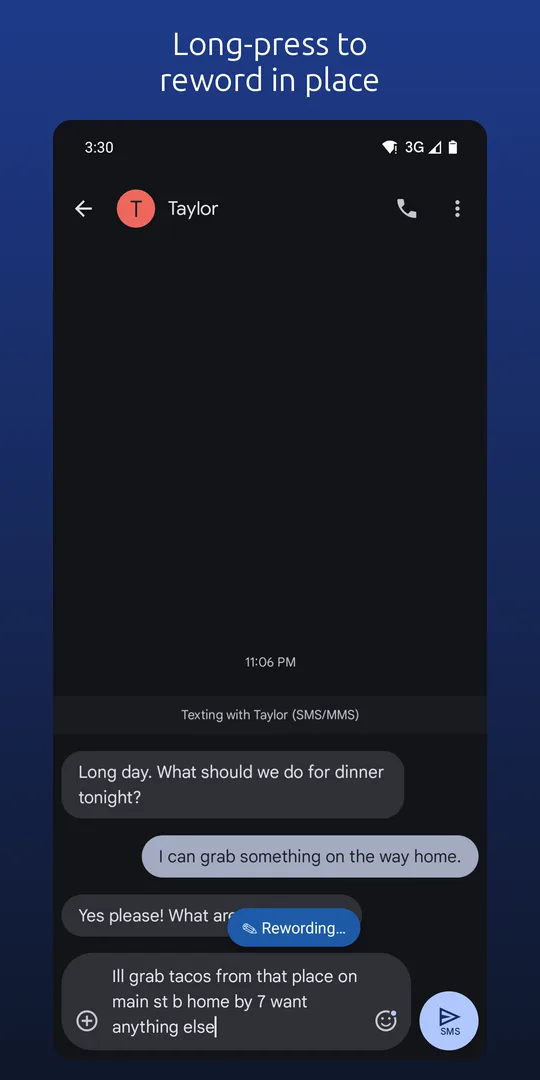
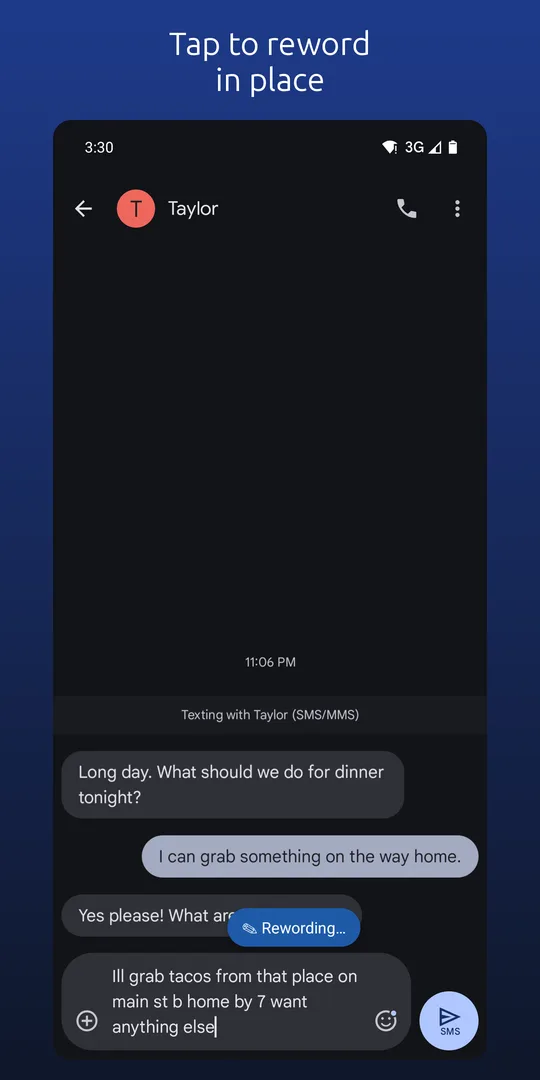
Tap rewords in place, long press shows the choices

Changed region(s): [[0.2963, 0.0306, 0.7111, 0.0917]]

diff --git a/index.html b/index.html
@@ -61,18 +61,18 @@
 </header>
 
 <p>Reword is an Android app that turns quick, messy messages into clear ones. Type or use
-voice to text like you always do, tap <span class="button">✎ Reword</span> above the message box,
-and tap Replace.</p>
+voice to text like you always do, then tap <span class="button">✎ Reword</span> above the message box.
+Your message is cleaned up right where you typed it.</p>
 
 <div class="steps">
 <ol>
   <li>Type your message in your texting, chat or email app.</li>
-  <li>Tap ✎ Reword and pick a style and reading level.</li>
-  <li>Check the rewrite, then tap Replace. You decide whether to send it.</li>
+  <li>Tap ✎ Reword. Your message is reworded right in the box, with a few seconds to undo.</li>
+  <li>You decide whether to send it.</li>
 </ol>
 </div>
-<p>In a hurry? Long-press <span class="button">✎ Reword</span> instead: your message is reworded right in the
-box, with a few seconds to undo. Your keyboard stays where it is.</p>
+<p>Want a different style? Long-press <span class="button">✎ Reword</span> to pick a style and reading level
+and see the rewrite before it goes in.</p>
 
 <h2>See it in action</h2>
 <ul class="gallery">
@@ -81,7 +81,7 @@ box, with a few seconds to undo. Your keyboard stays where it is.</p>
   <li><a href="screens/03-shakespeare.webp"><img src="screens/03-shakespeare.webp" alt="The same text rewritten as Shakespeare at the Max reading level" width="540" height="1080" loading="lazy"></a></li>
   <li><a href="screens/04-pirate.webp"><img src="screens/04-pirate.webp" alt="A messy text about a night out, rewritten as Pirate at the Max reading level" width="540" height="1080" loading="lazy"></a></li>
   <li><a href="screens/05-piratesent.webp"><img src="screens/05-piratesent.webp" alt="The pirate rewrite after it was sent" width="540" height="1080" loading="lazy"></a></li>
-  <li><a href="screens/06-lpbefore.webp"><img src="screens/06-lpbefore.webp" alt="Long-pressing the Reword button on a messy text about bringing home dinner" width="540" height="1080" loading="lazy"></a></li>
+  <li><a href="screens/06-lpbefore.webp"><img src="screens/06-lpbefore.webp" alt="Tapping the Reword button on a messy text about bringing home dinner" width="540" height="1080" loading="lazy"></a></li>
   <li><a href="screens/07-lpafter.webp"><img src="screens/07-lpafter.webp" alt="The text reworded in place as a rhyme at the Expert reading level, with an Undo button" width="540" height="1080" loading="lazy"></a></li>
   <li><a href="screens/08-setup.webp"><img src="screens/08-setup.webp" alt="Setup: connect to an AI, turn on the Reword button, try it" width="540" height="1080" loading="lazy"></a></li>
   <li><a href="screens/09-disclosure.webp"><img src="screens/09-disclosure.webp" alt="What the Reword button can see" width="540" height="1080" loading="lazy"></a></li>
@@ -114,7 +114,7 @@ use the Reword keyboard, the Quick Settings tile, or select text and choose Rewo
 
 <h2>Private by design</h2>
 <ul>
-  <li>Nothing is sent until you tap Reword, and then only to the AI you chose.</li>
+  <li>Nothing is sent until you tap or long-press Reword, and then only to the AI you chose.</li>
   <li>No account, no ads, no analytics.</li>
   <li>The Reword button reads only the message box you're typing in, only in the apps above, and
     never password boxes or messages you receive.</li>

diff --git a/privacy-policy.html b/privacy-policy.html
@@ -35,11 +35,11 @@ or share them. The text you ask to rewrite goes only to the AI you chose, only w
 are no accounts, ads or analytics.</p>
 
 <h2>The text you rewrite</h2>
-<p>When you tap Reword (on the floating button, in the Reword keyboard, from the Quick Settings tile
-or the text-selection menu), the app sends that text, with your chosen style and reading level, to
-the AI you selected in the app's setup, and shows you the result. If you long-press the floating
-button instead, the result goes straight into your message box, and you can undo it for a few
-seconds. Nothing is sent until you ask.</p>
+<p>When you use Reword (the floating button, the Reword keyboard, the Quick Settings tile or the
+text-selection menu), the app sends that text, with your chosen style and reading level, to the AI
+you selected in the app's setup. A tap on the floating button puts the result straight into your
+message box, and you can undo it for a few seconds; a long press, and the other ways, show you the
+result first. Nothing is sent until you ask.</p>
 <p>Where it goes depends on your choice:</p>
 <ul>
   <li><strong>On this phone:</strong> the text is rewritten by an AI model on your phone and never leaves it.</li>
